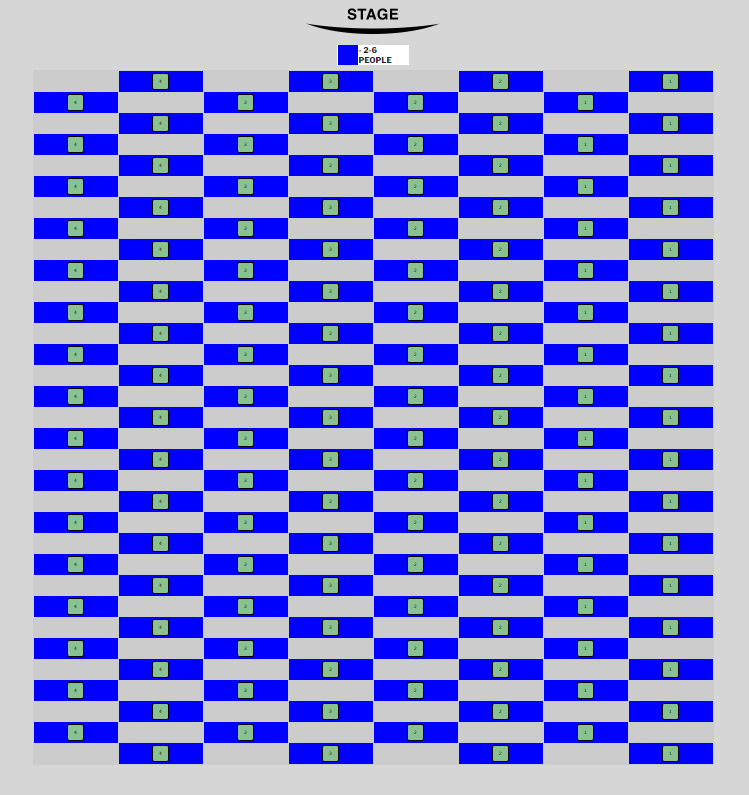
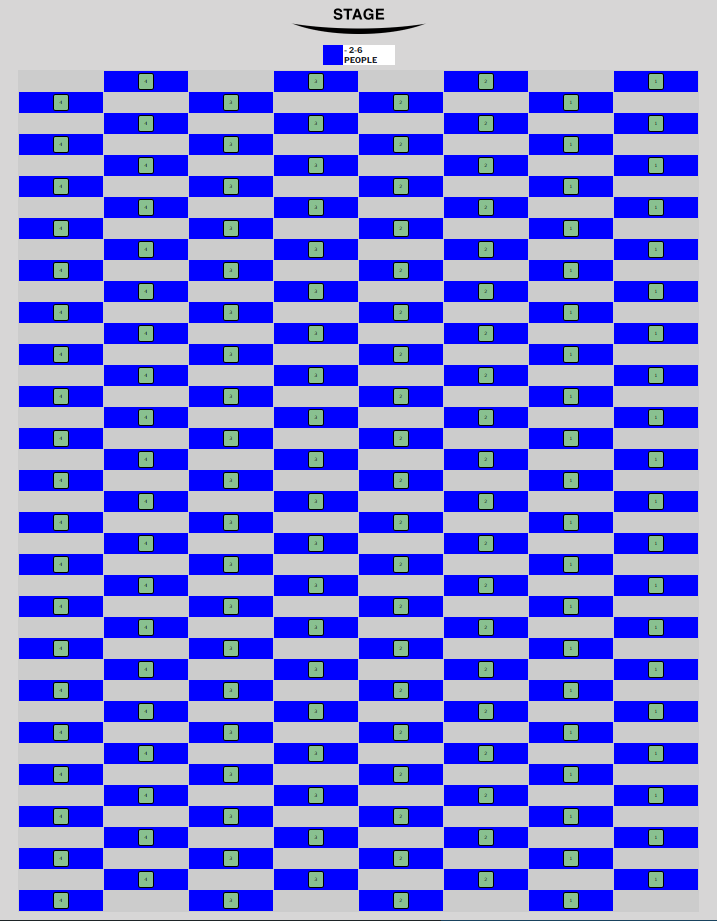
updates

diff --git a/Completed/24272.html b/Completed/24272.html
@@ -1558,6 +1558,321 @@
                                         </td>
                                     </tr>
 
+                                    <!-- Row HH -->
+                                    <tr>
+                                        <td align="left">
+                                            <table align='left'>
+                                                <tr>
+                                                    <td>
+                                                        <div class='blue' align='center'>
+                                                            {{{ sectionsMarkupNoRowNames.36410 }}}
+                                                        </div>    
+                                                    </td>
+                                                    <td>
+                                                        <div align='center'>
+                                                            <img src="https://s3.amazonaws.com/prdv2-dt-client/seating_images/pixel.png" width="168" height="42">
+                                                        </div>
+                                                    </td>
+                                                    <td>
+                                                        <div class='blue' align='center'>
+                                                            {{{ sectionsMarkupNoRowNames.36411 }}}
+                                                        </div>    
+                                                    </td>
+                                                    <td>
+                                                        <div align='center'>
+                                                            <img src="https://s3.amazonaws.com/prdv2-dt-client/seating_images/pixel.png" width="168" height="42">
+                                                        </div>
+                                                    </td>
+                                                    <td>
+                                                        <div class='blue' align='center'>
+                                                            {{{ sectionsMarkupNoRowNames.36412 }}}
+                                                        </div>    
+                                                    </td>
+                                                    <td>
+                                                        <div align='center'>
+                                                            <img src="https://s3.amazonaws.com/prdv2-dt-client/seating_images/pixel.png" width="168" height="42">
+                                                        </div>
+                                                    </td>
+                                                    <td>
+                                                        <div class='blue' align='center'>
+                                                            {{{ sectionsMarkupNoRowNames.36413 }}}
+                                                        </div>    
+                                                    </td>
+                                                </tr>
+                                            </table>
+                                        </td>
+                                    </tr>
+
+                                    <!-- Row II -->
+                                    <tr>
+                                        <td align="right">
+                                            <table align='right'>
+                                                <tr>
+                                                    <td>
+                                                        <div class='blue' align='center'>
+                                                            {{{ sectionsMarkupNoRowNames.36414 }}}
+                                                        </div>    
+                                                    </td>
+                                                    <td>
+                                                        <div align='center'>
+                                                            <img src="https://s3.amazonaws.com/prdv2-dt-client/seating_images/pixel.png" width="168" height="42">
+                                                        </div>
+                                                    </td>
+                                                    <td>
+                                                        <div class='blue' align='center'>
+                                                            {{{ sectionsMarkupNoRowNames.36415 }}}
+                                                        </div>    
+                                                    </td>
+                                                    <td>
+                                                        <div align='center'>
+                                                            <img src="https://s3.amazonaws.com/prdv2-dt-client/seating_images/pixel.png" width="168" height="42">
+                                                        </div>
+                                                    </td>
+                                                    <td>
+                                                        <div class='blue' align='center'>
+                                                            {{{ sectionsMarkupNoRowNames.36416 }}}
+                                                        </div>    
+                                                    </td>
+                                                    <td>
+                                                        <div align='center'>
+                                                            <img src="https://s3.amazonaws.com/prdv2-dt-client/seating_images/pixel.png" width="168" height="42">
+                                                        </div>
+                                                    </td>
+                                                    <td>
+                                                        <div class='blue' align='center'>
+                                                            {{{ sectionsMarkupNoRowNames.36417 }}}
+                                                        </div>    
+                                                    </td>
+                                                </tr>
+                                            </table>
+                                        </td>
+                                    </tr>
+
+                                    <!-- Row JJ -->
+                                    <tr>
+                                        <td align="left">
+                                            <table align='left'>
+                                                <tr>
+                                                    <td>
+                                                        <div class='blue' align='center'>
+                                                            {{{ sectionsMarkupNoRowNames.36418 }}}
+                                                        </div>    
+                                                    </td>
+                                                    <td>
+                                                        <div align='center'>
+                                                            <img src="https://s3.amazonaws.com/prdv2-dt-client/seating_images/pixel.png" width="168" height="42">
+                                                        </div>
+                                                    </td>
+                                                    <td>
+                                                        <div class='blue' align='center'>
+                                                            {{{ sectionsMarkupNoRowNames.36419 }}}
+                                                        </div>    
+                                                    </td>
+                                                    <td>
+                                                        <div align='center'>
+                                                            <img src="https://s3.amazonaws.com/prdv2-dt-client/seating_images/pixel.png" width="168" height="42">
+                                                        </div>
+                                                    </td>
+                                                    <td>
+                                                        <div class='blue' align='center'>
+                                                            {{{ sectionsMarkupNoRowNames.36420 }}}
+                                                        </div>    
+                                                    </td>
+                                                    <td>
+                                                        <div align='center'>
+                                                            <img src="https://s3.amazonaws.com/prdv2-dt-client/seating_images/pixel.png" width="168" height="42">
+                                                        </div>
+                                                    </td>
+                                                    <td>
+                                                        <div class='blue' align='center'>
+                                                            {{{ sectionsMarkupNoRowNames.36421 }}}
+                                                        </div>    
+                                                    </td>
+                                                </tr>
+                                            </table>
+                                        </td>
+                                    </tr>
+
+                                    <!-- Row KK -->
+                                    <tr>
+                                        <td align="right">
+                                            <table align='right'>
+                                                <tr>
+                                                    <td>
+                                                        <div class='blue' align='center'>
+                                                            {{{ sectionsMarkupNoRowNames.36422 }}}
+                                                        </div>    
+                                                    </td>
+                                                    <td>
+                                                        <div align='center'>
+                                                            <img src="https://s3.amazonaws.com/prdv2-dt-client/seating_images/pixel.png" width="168" height="42">
+                                                        </div>
+                                                    </td>
+                                                    <td>
+                                                        <div class='blue' align='center'>
+                                                            {{{ sectionsMarkupNoRowNames.36423 }}}
+                                                        </div>    
+                                                    </td>
+                                                    <td>
+                                                        <div align='center'>
+                                                            <img src="https://s3.amazonaws.com/prdv2-dt-client/seating_images/pixel.png" width="168" height="42">
+                                                        </div>
+                                                    </td>
+                                                    <td>
+                                                        <div class='blue' align='center'>
+                                                            {{{ sectionsMarkupNoRowNames.36424 }}}
+                                                        </div>    
+                                                    </td>
+                                                    <td>
+                                                        <div align='center'>
+                                                            <img src="https://s3.amazonaws.com/prdv2-dt-client/seating_images/pixel.png" width="168" height="42">
+                                                        </div>
+                                                    </td>
+                                                    <td>
+                                                        <div class='blue' align='center'>
+                                                            {{{ sectionsMarkupNoRowNames.36425 }}}
+                                                        </div>    
+                                                    </td>
+                                                </tr>
+                                            </table>
+                                        </td>
+                                    </tr>
+
+                                    <!-- Row LL -->
+                                    <tr>
+                                        <td align="left">
+                                            <table align='left'>
+                                                <tr>
+                                                    <td>
+                                                        <div class='blue' align='center'>
+                                                            {{{ sectionsMarkupNoRowNames.36426 }}}
+                                                        </div>    
+                                                    </td>
+                                                    <td>
+                                                        <div align='center'>
+                                                            <img src="https://s3.amazonaws.com/prdv2-dt-client/seating_images/pixel.png" width="168" height="42">
+                                                        </div>
+                                                    </td>
+                                                    <td>
+                                                        <div class='blue' align='center'>
+                                                            {{{ sectionsMarkupNoRowNames.36427 }}}
+                                                        </div>    
+                                                    </td>
+                                                    <td>
+                                                        <div align='center'>
+                                                            <img src="https://s3.amazonaws.com/prdv2-dt-client/seating_images/pixel.png" width="168" height="42">
+                                                        </div>
+                                                    </td>
+                                                    <td>
+                                                        <div class='blue' align='center'>
+                                                            {{{ sectionsMarkupNoRowNames.36428 }}}
+                                                        </div>    
+                                                    </td>
+                                                    <td>
+                                                        <div align='center'>
+                                                            <img src="https://s3.amazonaws.com/prdv2-dt-client/seating_images/pixel.png" width="168" height="42">
+                                                        </div>
+                                                    </td>
+                                                    <td>
+                                                        <div class='blue' align='center'>
+                                                            {{{ sectionsMarkupNoRowNames.36429 }}}
+                                                        </div>    
+                                                    </td>
+                                                </tr>
+                                            </table>
+                                        </td>
+                                    </tr>
+
+                                    <!-- Row MM -->
+                                    <tr>
+                                        <td align="right">
+                                            <table align='right'>
+                                                <tr>
+                                                    <td>
+                                                        <div class='blue' align='center'>
+                                                            {{{ sectionsMarkupNoRowNames.36430 }}}
+                                                        </div>    
+                                                    </td>
+                                                    <td>
+                                                        <div align='center'>
+                                                            <img src="https://s3.amazonaws.com/prdv2-dt-client/seating_images/pixel.png" width="168" height="42">
+                                                        </div>
+                                                    </td>
+                                                    <td>
+                                                        <div class='blue' align='center'>
+                                                            {{{ sectionsMarkupNoRowNames.36431 }}}
+                                                        </div>    
+                                                    </td>
+                                                    <td>
+                                                        <div align='center'>
+                                                            <img src="https://s3.amazonaws.com/prdv2-dt-client/seating_images/pixel.png" width="168" height="42">
+                                                        </div>
+                                                    </td>
+                                                    <td>
+                                                        <div class='blue' align='center'>
+                                                            {{{ sectionsMarkupNoRowNames.36432 }}}
+                                                        </div>    
+                                                    </td>
+                                                    <td>
+                                                        <div align='center'>
+                                                            <img src="https://s3.amazonaws.com/prdv2-dt-client/seating_images/pixel.png" width="168" height="42">
+                                                        </div>
+                                                    </td>
+                                                    <td>
+                                                        <div class='blue' align='center'>
+                                                            {{{ sectionsMarkupNoRowNames.36433 }}}
+                                                        </div>    
+                                                    </td>
+                                                </tr>
+                                            </table>
+                                        </td>
+                                    </tr>
+
+                                    <!-- Row NN -->
+                                    <tr>
+                                        <td align="left">
+                                            <table align='left'>
+                                                <tr>
+                                                    <td>
+                                                        <div class='blue' align='center'>
+                                                            {{{ sectionsMarkupNoRowNames.36434 }}}
+                                                        </div>    
+                                                    </td>
+                                                    <td>
+                                                        <div align='center'>
+                                                            <img src="https://s3.amazonaws.com/prdv2-dt-client/seating_images/pixel.png" width="168" height="42">
+                                                        </div>
+                                                    </td>
+                                                    <td>
+                                                        <div class='blue' align='center'>
+                                                            {{{ sectionsMarkupNoRowNames.36435 }}}
+                                                        </div>    
+                                                    </td>
+                                                    <td>
+                                                        <div align='center'>
+                                                            <img src="https://s3.amazonaws.com/prdv2-dt-client/seating_images/pixel.png" width="168" height="42">
+                                                        </div>
+                                                    </td>
+                                                    <td>
+                                                        <div class='blue' align='center'>
+                                                            {{{ sectionsMarkupNoRowNames.36436 }}}
+                                                        </div>    
+                                                    </td>
+                                                    <td>
+                                                        <div align='center'>
+                                                            <img src="https://s3.amazonaws.com/prdv2-dt-client/seating_images/pixel.png" width="168" height="42">
+                                                        </div>
+                                                    </td>
+                                                    <td>
+                                                        <div class='blue' align='center'>
+                                                            {{{ sectionsMarkupNoRowNames.36437 }}}
+                                                        </div>    
+                                                    </td>
+                                                </tr>
+                                            </table>
+                                        </td>
+                                    </tr>
+
                                     <tr>
                                         <td>
                                             <div align='center'>
